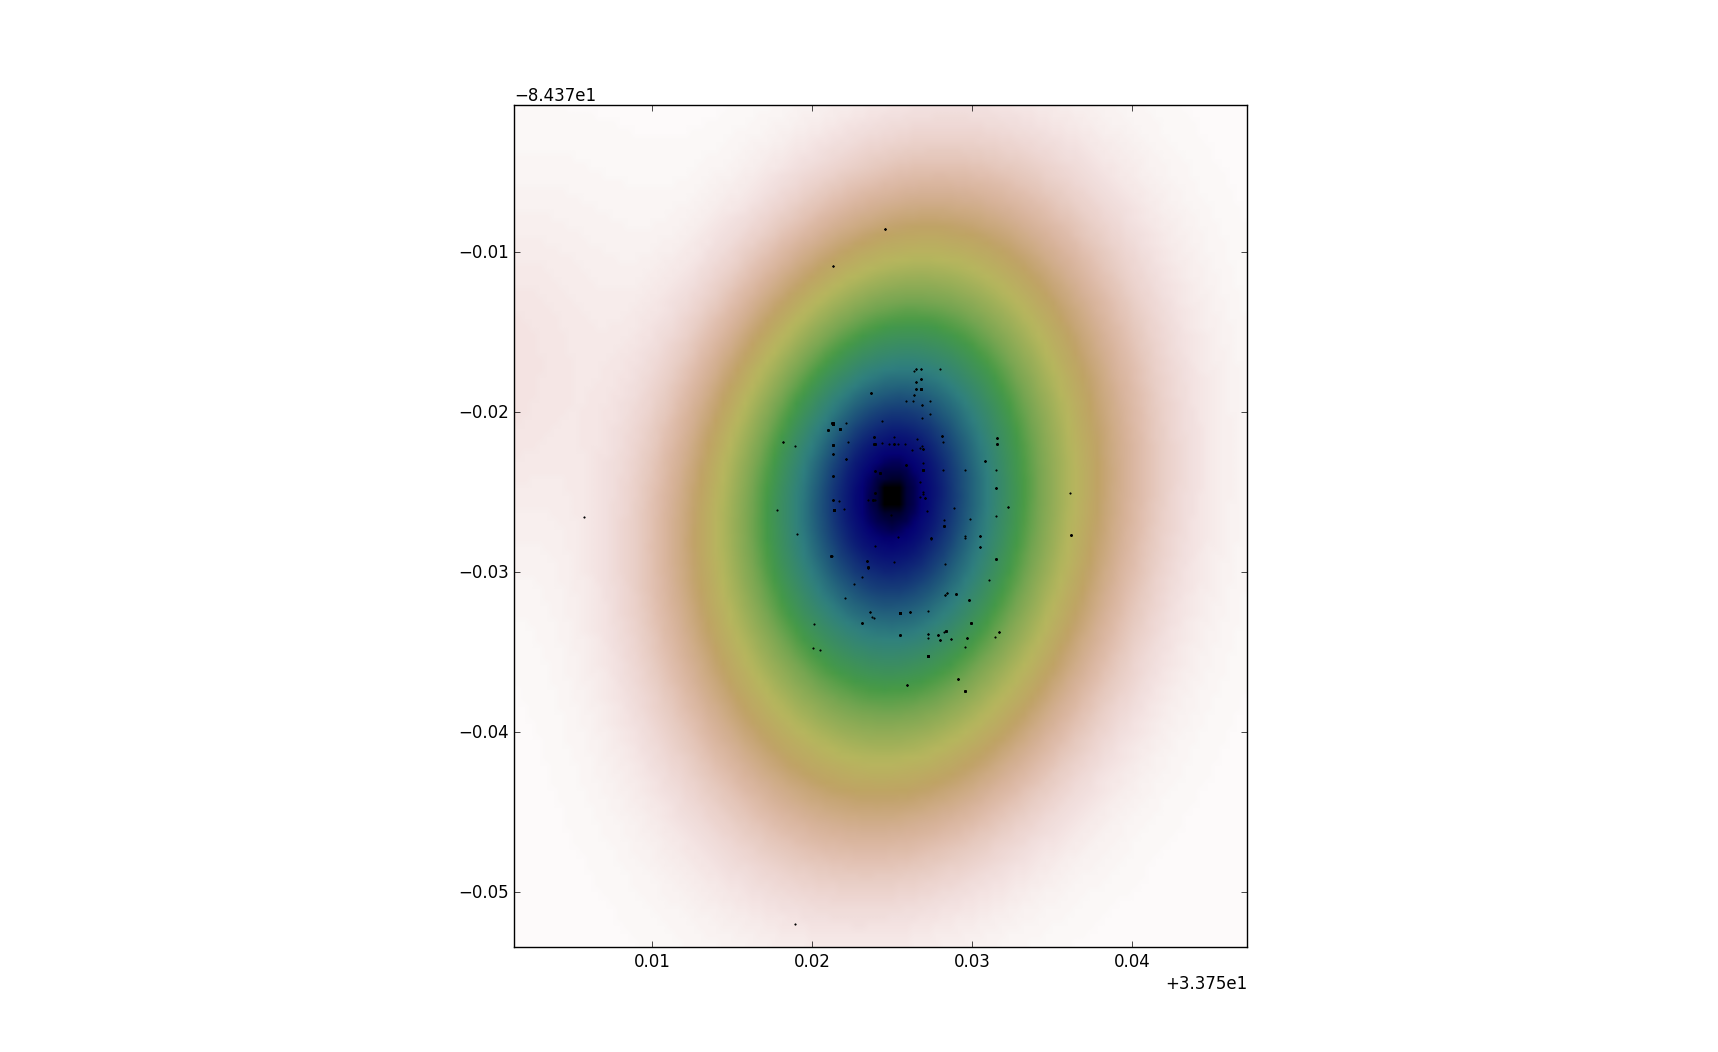
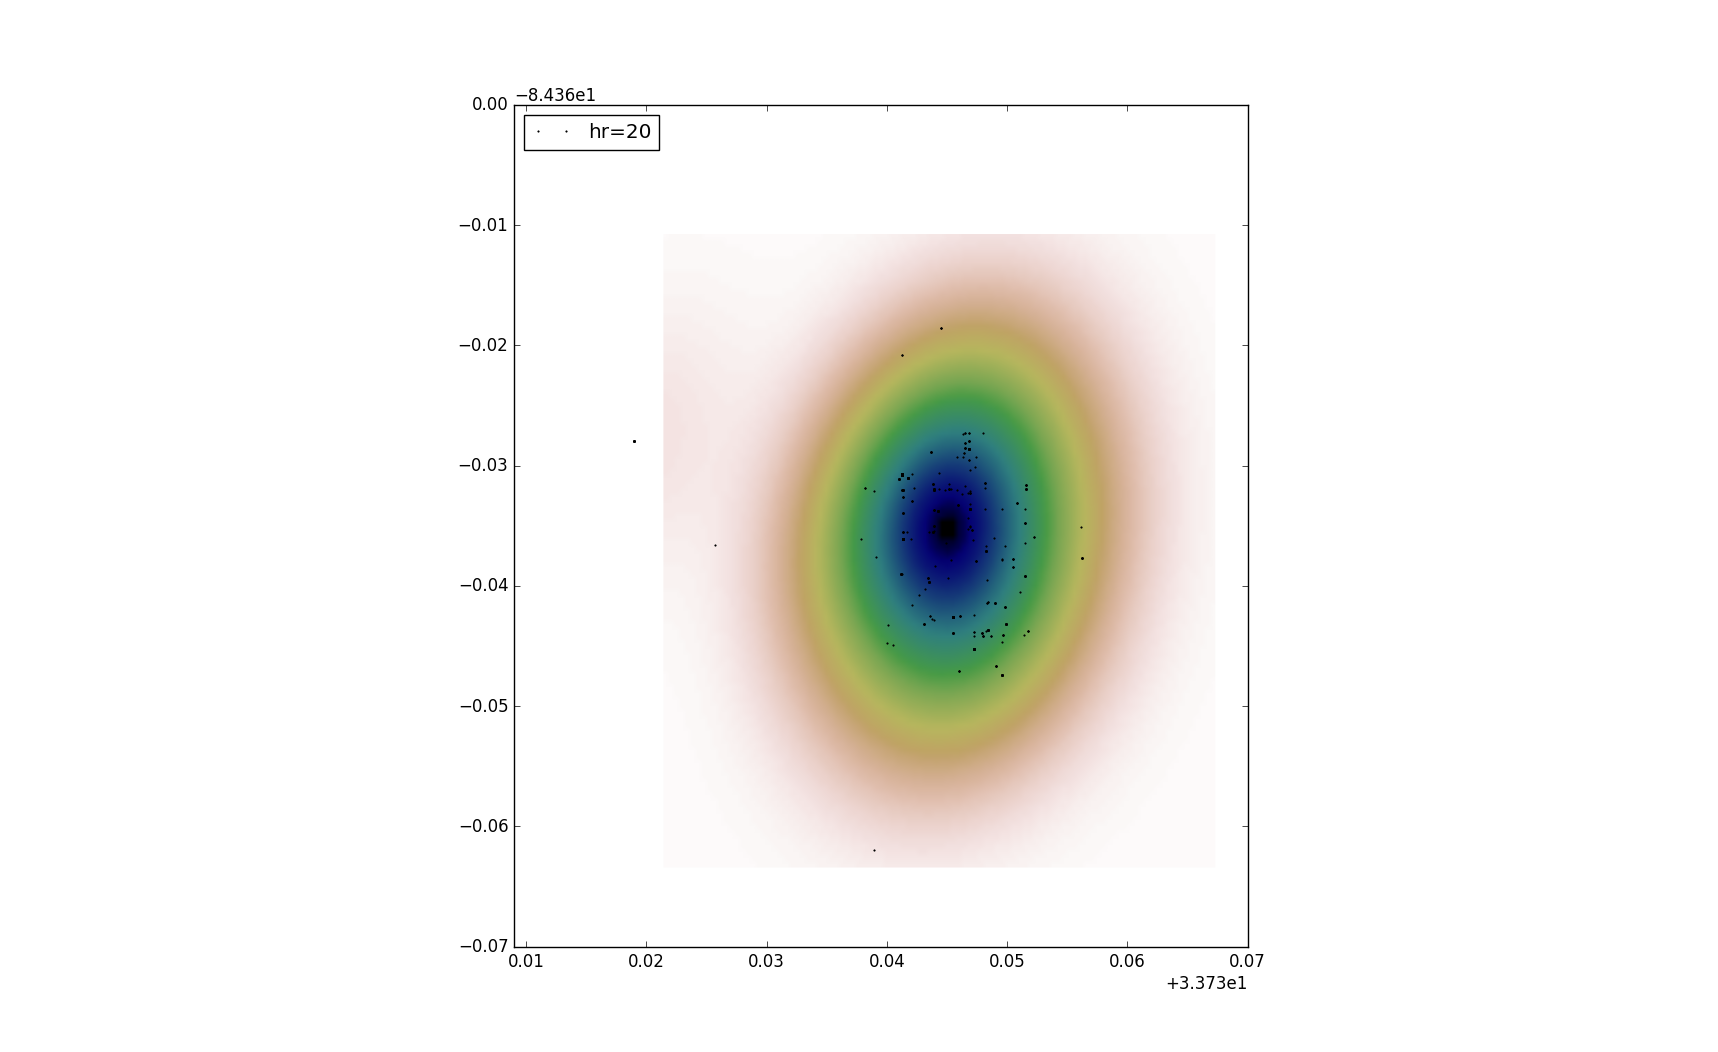
tried out all bandwidths and changed kde model accordingly

diff --git a/kde_model.py b/kde_model.py
@@ -15,8 +15,10 @@ class DataInfo:
 class DataMiner:
 
 	DATAINFO = [12,13,17]
-	xmin, ymin = 33.773249, -84.409860#33.7514, -84.4234
-	xmax, ymax = 33.786683, -84.391138#33.7972, -84.3708
+#	xmin, ymin = 33.773249, -84.409860
+#	xmax, ymax = 33.786683, -84.391138
+	xmin, ymin = 33.739, -84.43
+	xmax, ymax = 33.8, -84.36
 
 	def __init__(self):
 		self.dataset_path = "./dataset.csv" #"./With-Weight-Georgia_Institute_of_Technology.csv" 
@@ -32,45 +34,44 @@ class DataMiner:
 	def selectBdwd(self):
 		d = self.data
 		x, y, z = d[0],d[1],d[2] ## x=lat, y=lng, z=hr
-		xbdwd = 0.00096
-		fbdwdkde_x = CustBdwdKDE(x,xbdwd)
-		x_grid = np.linspace(x.min(), x.max(), 1000)
-		xpdf = fbdwdkde_x(x_grid)
-		xpdf_true = fbdwdkde_x(x)
+		x_grid = np.linspace(x.min(), x.max(), 10000)
 		fig, ax = plt.subplots()
 		fig.subplots_adjust(wspace=0)
-		ax.plot(x_grid, xpdf, color='blue', alpha=0.5, lw=3,label='xbw={0}'.format(xbdwd))
-		ax.plot(x,np.full(x.shape,xpdf.min()),'ro')#, c=pdf_true, alpha=0.4)
-		ax.hist(x, 20, fc='gray', histtype='stepfilled', alpha=0.3, normed=True)
+		for xbdwd in [0.0010, 0.0009, 0.0008, 0.0007,0.0006,0.0005,0.0004]:
+			fbdwdkde_x = CustBdwdKDE(x,xbdwd)
+			xpdf = fbdwdkde_x(x_grid)
+			#xpdf_true = fbdwdkde_x(x)
+			ax.plot(x_grid, xpdf, alpha=0.5, lw=3,label='xbw={0}'.format(xbdwd))
+#		ax.plot(x,np.full(x.shape,xpdf.min()),'ro')#, c=pdf_true, alpha=0.4)
+		ax.scatter(x,np.full(x.shape,(xpdf.max()+xpdf.min())/2), alpha=0.4)
+		ax.hist(x, 1000, fc='gray', histtype='stepfilled', alpha=0.3, normed=True)
 		ax.legend(loc='upper left')
-#		ax.set_xlim(self.xmin, self.xmax)
 		plt.axis([x.min(), x.max(), xpdf.min(), xpdf.max()])
-#		plt.show()
+		ax.set_xlim(self.xmin, self.xmax)
+		plt.show()
 		
-		ybdwd = 0.00096
-		fbdwdkde_y = CustBdwdKDE(y,ybdwd)
-		y_grid = np.linspace(y.min(), y.max(), 1000)
-		ypdf = fbdwdkde_y(y_grid)
-		ypdf_true = fbdwdkde_y(y)
+		y_grid = np.linspace(y.min(), y.max(), 10000)
 		fig1, ax1 = plt.subplots()
 		fig1.subplots_adjust(wspace=0)
-		ax1.plot(y_grid, ypdf, color='blue', alpha=0.5, lw=3,label='ybw={0}'.format(ybdwd))
-		ax1.plot(y,np.full(y.shape,ypdf.min()),'ro')
-		ax1.hist(y, 20, fc='gray', histtype='stepfilled', alpha=0.3,normed=True)
+		for ybdwd in [0.002, 0.0015,0.0010, 0.0009, 0.0008, 0.0007,0.0006]:
+			fbdwdkde_y = CustBdwdKDE(y,ybdwd)	
+			ypdf = fbdwdkde_y(y_grid)
+			#ypdf_true = fbdwdkde_y(y)
+			ax1.plot(y_grid, ypdf, alpha=0.5, lw=3,label='ybw={0}'.format(ybdwd))
+		ax1.scatter(y,np.full(y.shape,(ypdf.max()+ypdf.min())/2), alpha=0.4)
+		ax1.hist(y, 1000, fc='gray', histtype='stepfilled', alpha=0.3,normed=True)
 		ax1.legend(loc='upper left')
-		ax1.set_xlim(y.min(), y.max())
-#		plt.show()
-		
-		
-		zbdwd = 1
-		fbdwdkde_z = CustBdwdKDE(z,zbdwd)
-		z_grid = np.linspace(z.min(), z.max(), 1000)
-		zpdf = fbdwdkde_z(z_grid)
-		zpdf_true = fbdwdkde_z(z)
+		ax1.set_xlim(self.ymin, self.ymax)
+	
 		fig2, ax2 = plt.subplots()
 		fig2.subplots_adjust(wspace=0)
-		ax2.plot(z_grid, zpdf, color='blue', alpha=0.5, lw=3,label='zbw={0}'.format(zbdwd))
-		ax2.plot(z,np.full(z.shape,zpdf.min()),'ro')#, c=pdf_true, alpha=0.4)
+		z_grid = np.linspace(z.min(), z.max(), 10000)
+		for zbdwd in [1.5,1,0.7,0.3]:
+			fbdwdkde_z = CustBdwdKDE(z,zbdwd)
+			zpdf = fbdwdkde_z(z_grid)
+			#zpdf_true = fbdwdkde_z(z)
+			ax2.plot(z_grid, zpdf, alpha=0.5, lw=3,label='zbw={0}'.format(zbdwd))
+		ax2.scatter(z,np.full(z.shape,zpdf.min()), alpha=0.4)#, c=pdf_true, alpha=0.4)
 		ax2.hist(z, 20, fc='gray', histtype='stepfilled', alpha=0.3, normed=True)
 		ax2.legend(loc='upper left')
 		ax2.set_xlim(z.min(), z.max())
@@ -83,38 +84,34 @@ class DataMiner:
 		out = self.kde(datapoints)
 		densities = out.T
 		for currentIndex,elem in enumerate(densities):
-		  s1 = '%f,%f,%f,%f\n'%(datapoints[0][currentIndex], datapoints[1][currentIndex], datapoints[2][currentIndex], densities[currentIndex] )
+		  s1 = '%f,%f,%f\n'%(datapoints[0][currentIndex], datapoints[1][currentIndex], densities[currentIndex] )
 		  fid.write(s1)
 		fid.close()
 		return out
 
 	def _kde_scipy(self):
 		self.data = self.data.T
-#### plot input data points
-#		fig0, ax0 = plt.subplots(subplot_kw=dict(projection='3d'))
-#		x,y,z = self.data[0], self.data[1], self.data[2]
-#		ax0.scatter(x,y,z)
-#		plt.show()
+		'''use default bandwidths'''
+#		self.kde = stats.gaussian_kde(self.data)
+		'''change bandwidths'''
+		self.kde = CustBdwdKDE(self.data,bandwidth=[0.0006,0.001,0.7])
 
-#### self.data as formatted below
-#### [[lat1,.....]
-####  [lng1,.....] 
-####  [hr1,......]]
-		self.kde = stats.gaussian_kde(self.data)
-		
+		'''plot out all data points at all hours'''
 #		density = self.kde(self.data)
-#		index = density.argsort()
-##		spec_hrs = np.full(self.data[0].shape,8)
-#		lat, lng, hr, density = self.data[0][index], self.data[1][index], spec_hrs, density[index] # mapping of input data points
-#		hr = self.data[2][index] #at all hours
-		
-#### matplotlib to plot all data points with density coloring
+##		print self.data
+##		index = density.argsort()
+#		spec_hrs = np.full(self.data[0].shape,8)
+##		lat, lng, hr, density = self.data[0][index], self.data[1][index], spec_hrs, density[index] # mapping of input data points
+#		lat, lng = self.data[0], self.data[1]
+#		hr = self.data[2] #at all hours
+#		'''matlibplot plotting data points at all hours'''
 #		fig, (ax2) = plt.subplots(1,1,subplot_kw=dict(projection='3d'))
-##		ax1.scatter(lat, lng, hr)#, c=density)
-##		ax2.imshow(np.rot90(density), cmap=plt.cm.gist_earth_r,extent=[self.xmin, self.xmax, self.ymin, self.ymax])
-#		ax2.set_xlim([self.xmin, self.xmax])
-#		ax2.set_ylim([self.ymin, self.ymax])
-#		ax2.scatter(lat, lng, c=density)
+#		ax2.set_xlim([self.xmin,self.xmax])
+#		ax2.set_ylim([self.ymin,self.ymax])
+##		ax2.set_xlim([lat.min(), lat.max()])
+##		ax2.set_ylim([lng.min(), lng.max()])
+#		ax2.set_zlim([0,24])
+#		ax2.scatter(lat, lng, hr,c=density)
 #		plt.show()
 
 #### mayavi plotting
@@ -146,7 +143,6 @@ class DataMiner:
 #		print(data)
 		form_file.close()
 		data = np.array(data,dtype=float)
-#		data.astype(np.float)
 		return data
 
 
@@ -187,40 +183,41 @@ class CustBdwdKDE(stats.gaussian_kde):
 
     def set_bandwidth(self, bandwidth):
         if np.isscalar(bandwidth):
-            covariance = numpy.eye(self.d) * bandwidth**2
+            covariance = np.eye(self.d) * bandwidth**2
         else:
             bandwidth = numpy.asarray(bandwidth)
             if bandwidth.shape == (self.d,): # bandwidth is 1-d array of len(self.d)
-                covariance = numpy.diag(bandwidth**2)
+                covariance = np.diag(bandwidth**2)
             else:
                 raise ValueError("'bandwidth' should be a scalar, a 1-d array of length d.")
         self.set_covariance(covariance)
 
     def set_covariance(self, covariance):
-        self.covariance = numpy.asarray(covariance)
-        self.inv_cov = numpy.linalg.inv(self.covariance)
-        self._norm_factor = numpy.sqrt(numpy.linalg.det(2*numpy.pi*self.covariance)) * self.n
+        self.covariance = np.asarray(covariance)
+        self.inv_cov = np.linalg.inv(self.covariance)
+        self._norm_factor = np.sqrt(numpy.linalg.det(2*numpy.pi*self.covariance)) * self.n
 		
 dm = DataMiner()
 #dm.selectBdwd()
-#### grid set up, may exclude outliers
-#### plot on one plane of the hour
-xmin, ymin, zmin = 33.7514, -84.4234, 10#self.data[0].min(), self.data[1].min(), 10#self.data[2].min()
-xmax, ymax, zmax = 33.7972, -84.3708, 11#self.data[0].max(), self.data[1].max(), 11#self.data[2].max()
+'''plot points and grid densities at a specified hour'''
+xmin, ymin = 33.7514, -84.4234#dm.data[0].min(), dm.data[1].min(), 10#
+xmax, ymax = 33.7972, -84.3708#dm.data[0].max(), dm.data[1].max(), 11#
 lat, lng = np.mgrid[xmin:xmax:100j, ymin:ymax:100j]
-#		hr = np.mgrid[zmin:zmax:40j]
-speci_hr = 18 ## show data at a specific time
+speci_hr = 20 ## show data at a specific time
 hr = np.empty(lat.shape) ##set hr to a specific hour
 for i in range(lat.shape[0]):
 		for j in range(lat.shape[1]):
 			hr[i,j]=speci_hr
+hr = np.full(lat.shape,speci_hr)
 coords = np.vstack([item.ravel() for item in [lat, lng, hr]]) 
 density = dm.getDensity(coords).reshape(lat.shape)
 fig3, ax3 = plt.subplots()
 ax3.imshow(np.rot90(density), cmap=plt.cm.gist_earth_r,extent=[xmin, xmax, ymin, ymax])
 ax3.plot(dm.data[0][dm.data[2,:]==speci_hr], dm.data[1][dm.data[2,:]==speci_hr], 'k.', markersize=2,label='hr={0}'.format(speci_hr))
-ax3.set_xlim([xmin, xmax])
-ax3.set_ylim([ymin, ymax])
+#ax3.set_xlim([33.739, 33.8])
+#ax3.set_ylim([-84.43, -84.36])
+ax3.set_xlim([dm.xmin, dm.xmax])
+ax3.set_ylim([dm.ymin, dm.ymax])
 ax3.legend(loc='upper left')
 plt.show()
 #		mlab.contour3d(lat, lng, hr, density, opacity=0.5)
